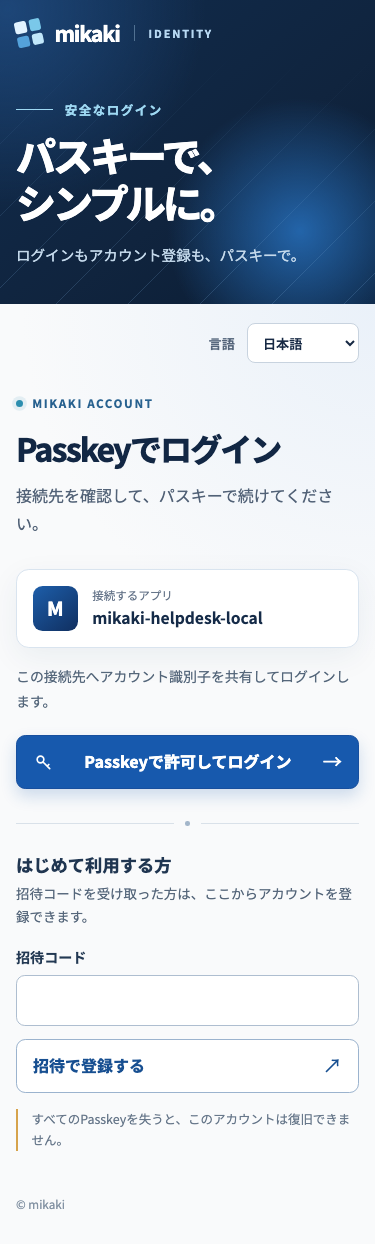
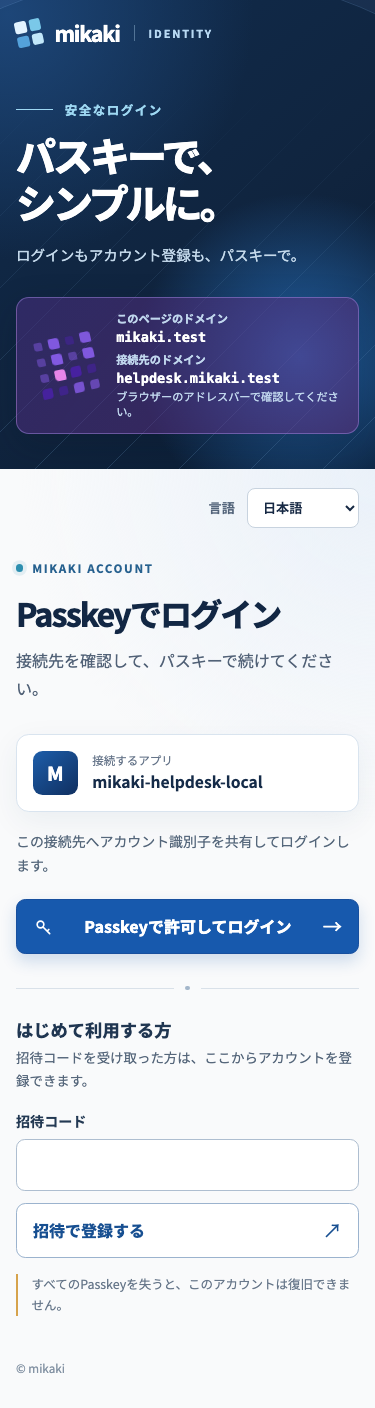
Add URI-responsive login identity cue

diff --git a/crates/worker/ui/auth.css b/crates/worker/ui/auth.css
@@ -159,6 +159,118 @@ select {
   line-height: 1.85;
 }
 
+.auth-session-cue {
+  display: flex;
+  align-items: center;
+  gap: 1rem;
+  width: fit-content;
+  max-width: 100%;
+  margin-top: 1.75rem;
+  padding: 0.85rem 1rem;
+  border: 1px solid hsl(var(--page-hue) 42% 82%);
+  border-radius: 0.8rem;
+  background: linear-gradient(125deg, hsl(var(--page-hue) 75% 97%), hsl(var(--rp-hue) 70% 94%));
+  background-size: 180% 180%;
+  animation: auth-cue-drift 12s ease-in-out infinite alternate;
+}
+
+.auth-story .auth-session-cue {
+  border-color: hsl(var(--page-hue) 65% 72% / 0.48);
+  background: linear-gradient(
+    125deg,
+    hsl(var(--page-hue) 48% 35% / 0.52),
+    hsl(var(--rp-hue) 48% 32% / 0.5)
+  );
+  background-size: 180% 180%;
+  box-shadow: 0 12px 35px #07172938;
+}
+
+.auth-session-pattern {
+  display: grid;
+  grid-template-columns: repeat(4, 0.7rem);
+  gap: 0.3rem;
+  flex: none;
+  padding: 0.25rem;
+  transform: rotate(-12deg);
+}
+
+.auth-session-tile {
+  width: 0.7rem;
+  height: 0.7rem;
+  border-radius: 0.24rem 0.1rem 0.24rem 0.1rem;
+  background: hsl(var(--page-hue) 66% 39%);
+  transform: rotate(var(--turn));
+  animation: auth-tile-breathe 3.6s ease-in-out infinite;
+  animation-delay: var(--delay);
+}
+
+.auth-session-tone-1 {
+  background: hsl(var(--page-hue) 70% 62%);
+}
+.auth-session-tone-2 {
+  background: hsl(var(--rp-hue) 70% 72%);
+}
+.auth-session-tone-3 {
+  background: hsl(var(--rp-hue) 61% 36%);
+}
+
+.auth-origin {
+  display: flex;
+  flex-direction: column;
+  min-width: 0;
+  gap: 0.1rem;
+  line-height: 1.35;
+}
+
+.auth-origin-label,
+.auth-origin-hint {
+  color: #526277;
+  font-size: 0.7rem;
+}
+
+.auth-origin-label {
+  font-weight: 700;
+}
+.auth-origin-rp-label {
+  margin-top: 0.25rem;
+}
+
+.auth-origin-host {
+  color: #173b63;
+  font-family: ui-monospace, SFMono-Regular, Menlo, Consolas, monospace;
+  font-size: 0.85rem;
+  overflow-wrap: anywhere;
+}
+
+.auth-story .auth-origin-label,
+.auth-story .auth-origin-hint {
+  color: #c0d6ed;
+}
+.auth-story .auth-origin-host {
+  color: #fff;
+}
+
+@keyframes auth-tile-breathe {
+  0%,
+  100% {
+    opacity: 0.48;
+    scale: 0.75;
+  }
+  45% {
+    opacity: 1;
+    scale: 1;
+  }
+}
+
+@keyframes auth-cue-drift {
+  from {
+    background-position: 0% 50%;
+  }
+  to {
+    background-position: 100% 50%;
+  }
+}
+
 .auth-art {
   position: relative;
   width: clamp(16rem, 28vw, 26rem);
@@ -635,5 +747,12 @@ select {
   .auth-secondary,
   .auth-field input {
     transition: none;
+  }
+  .auth-session-cue,
+  .auth-session-tile {
+    animation: none;
+  }
+  .auth-session-tile {
+    opacity: 1;
   }
 }

diff --git a/local/conformance/worker-ui.test.ts b/local/conformance/worker-ui.test.ts
@@ -48,7 +48,7 @@ test('Worker login and Vault mount their Svelte screens in both locales', async 
       if (url.pathname === '/login') {
         await route.fulfill({
           contentType: 'text/html; charset=utf-8',
-          body: `<!doctype html><html lang="${locale}"><head><title>mikaki</title><link rel="stylesheet" href="/login/login.css"></head><body><div id="app" data-tx="${'a'.repeat(43)}" data-challenge="${'b'.repeat(43)}" data-rp-id="mikaki.test" data-client="test-rp" data-enrollment="${url.searchParams.has('enroll')}"></div><script type="module" src="/login/login.js"></script></body></html>`,
+          body: `<!doctype html><html lang="${locale}"><head><title>mikaki</title><link rel="stylesheet" href="/login/login.css"></head><body><div id="app" data-tx="${'a'.repeat(43)}" data-challenge="${'b'.repeat(43)}" data-rp-id="mikaki.test" data-rp-uri="https://${url.searchParams.has('other-rp') ? 'other.example' : 'client.example'}/callback" data-client="test-rp" data-enrollment="${url.searchParams.has('enroll')}"></div><script type="module" src="/login/login.js"></script></body></html>`,
         });
         return;
       }
@@ -65,6 +65,15 @@ test('Worker login and Vault mount their Svelte screens in both locales', async 
     await page.goto('https://mikaki.test/login');
     await page.getByRole('button', { name: 'Passkeyで許可してログイン' }).waitFor();
     assert.equal(await page.getByText('test-rp').count(), 1);
+    assert.equal(await page.locator('.auth-origin-host').first().textContent(), 'mikaki.test');
+    assert.equal(await page.locator('.auth-origin-host').nth(1).textContent(), 'client.example');
+    assert.equal(await page.locator('.auth-session-tile').count(), 16);
+    const firstStyle = await page.locator('.auth-session-cue').getAttribute('style');
+    await page.goto('https://mikaki.test/login?other-rp=1');
+    await page.getByRole('button', { name: 'Passkeyで許可してログイン' }).waitFor();
+    assert.notEqual(await page.locator('.auth-session-cue').getAttribute('style'), firstStyle);
+    await page.goto('https://mikaki.test/login');
+    await page.getByRole('button', { name: 'Passkeyで許可してログイン' }).waitFor();
     assert.equal(
       await page
         .locator('.auth-primary')

diff --git a/crates/worker/ui/SessionCue.svelte b/crates/worker/ui/SessionCue.svelte
@@ -1,0 +1,60 @@
+<script lang="ts">
+  let {
+    seed,
+    pageUri,
+    rpUri,
+    pageLabel,
+    rpLabel,
+    hint,
+  }: {
+    seed: string;
+    pageUri: string;
+    rpUri: string;
+    pageLabel: string;
+    rpLabel: string;
+    hint: string;
+  } = $props();
+
+  function hash(value: string): number {
+    let result = 2166136261;
+    for (const character of value) {
+      result = Math.imul(result ^ character.charCodeAt(0), 16777619);
+    }
+    return result >>> 0;
+  }
+
+  const page = $derived(new URL(pageUri));
+  const rp = $derived(new URL(rpUri));
+  const pageHue = $derived(190 + (hash(page.origin + page.pathname) % 140));
+  const rpHue = $derived((pageHue + 25 + (hash(rp.origin + rp.pathname) % 46)) % 360);
+  const tiles = $derived(
+    Array.from({ length: 16 }, (_, index) => {
+      const value = hash(`${page.origin}${page.pathname}|${rp.href}|${seed}|${index}`);
+      return {
+        tone: (value >>> 12) % 4,
+        style: `--turn: ${((value >>> 16) % 4) * 90}deg; --delay: -${((value >>> 8) % 36) / 10}s;`,
+      };
+    }),
+  );
+</script>
+
+<div class="auth-session-cue" style={`--page-hue: ${pageHue}; --rp-hue: ${rpHue};`}>
+  <div class="auth-session-pattern" aria-hidden="true">
+    {#each tiles as tile}
+      <span
+        class="auth-session-tile"
+        class:auth-session-tone-1={tile.tone === 1}
+        class:auth-session-tone-2={tile.tone === 2}
+        class:auth-session-tone-3={tile.tone === 3}
+        style={tile.style}
+      ></span>
+    {/each}
+  </div>
+  <div class="auth-origin">
+    <span class="auth-origin-label">{pageLabel}</span>
+    <strong class="auth-origin-host">{page.host}</strong>
+    <span class="auth-origin-label auth-origin-rp-label">{rpLabel}</span>
+    <strong class="auth-origin-host">{rp.host}</strong>
+    <span class="auth-origin-hint">{hint}</span>
+  </div>
+</div>

diff --git a/local/ui/src/App.svelte b/local/ui/src/App.svelte
@@ -2,15 +2,20 @@
   import { onMount } from 'svelte';
   import * as m from './paraglide/messages.js';
   import { getLocale, setLocale, type Locale } from './paraglide/runtime.js';
+  import SessionCue from '../../../crates/worker/ui/SessionCue.svelte';
   let invitation = $state(''),
     consent = $state(false),
     busy = $state(false),
     error = $state(false),
     missingInvitation = $state(false),
     expired = $state(false);
-  let context = $state<{ tx: string; csrf: string; client: string; signed_in: boolean } | null>(
-    null,
-  );
+  let context = $state<{
+    tx: string;
+    csrf: string;
+    client: string;
+    rp_uri: string;
+    signed_in: boolean;
+  } | null>(null);
   const tx = new URL(location.href).searchParams.get('tx');
   const decode = (s: string) =>
     Uint8Array.from(atob(s.replaceAll('-', '+').replaceAll('_', '/')), (c) => c.charCodeAt(0));
@@ -118,6 +123,16 @@
       <p class="auth-kicker">{m.authKicker()}</p>
       <h1 id="auth-title">{m.authHeroHeadingFirst()}<br />{m.authHeroHeadingSecond()}</h1>
       <p>{m.authHeroDescription()}</p>
+      {#if context}
+        <SessionCue
+          seed={context.tx}
+          pageUri={location.href}
+          rpUri={context.rp_uri}
+          pageLabel={m.authOriginLabel()}
+          rpLabel={m.authRpOriginLabel()}
+          hint={m.authOriginHint()}
+        />
+      {/if}
     </section>
     <section class="auth-card" aria-labelledby="auth-action-title">
       <h2 id="auth-action-title">{m.login()}</h2>

diff --git a/crates/worker/ui/Login.svelte b/crates/worker/ui/Login.svelte
@@ -2,12 +2,14 @@
   import { onMount } from 'svelte';
   import * as m from './paraglide/messages.js';
   import { switchLocale } from './locale.js';
+  import SessionCue from './SessionCue.svelte';
   import type { Locale } from './paraglide/runtime.js';
 
   let {
     tx,
     challenge,
     rpId,
+    rpUri,
     client,
     enrollment,
     locale,
@@ -15,6 +17,7 @@
     tx: string;
     challenge: string;
     rpId: string;
+    rpUri: string;
     client: string;
     enrollment: boolean;
     locale: Locale;
@@ -194,6 +197,14 @@
       </p>
       <h1 id="auth-title">{m.authHeroHeadingFirst()}<br />{m.authHeroHeadingSecond()}</h1>
       <p class="auth-hero-description">{m.authHeroDescription()}</p>
+      <SessionCue
+        seed={tx}
+        pageUri={location.href}
+        {rpUri}
+        pageLabel={m.authOriginLabel()}
+        rpLabel={m.authRpOriginLabel()}
+        hint={m.authOriginHint()}
+      />
     </div>
     <div class="auth-art" aria-hidden="true">
       <div class="auth-art-ring auth-art-ring-outer"></div>

diff --git a/crates/worker/ui/login.ts b/crates/worker/ui/login.ts
@@ -5,8 +5,8 @@ import './auth.css';
 
 const target = document.getElementById('app');
 if (!(target instanceof HTMLElement)) throw new Error('Invalid login page');
-const { tx, challenge, rpId, client, enrollment } = target.dataset;
-if (!tx || !challenge || !rpId || !client) throw new Error('Invalid login transaction');
+const { tx, challenge, rpId, rpUri, client, enrollment } = target.dataset;
+if (!tx || !challenge || !rpId || !rpUri || !client) throw new Error('Invalid login transaction');
 
 mount(Login, {
   target,
@@ -14,6 +14,7 @@ mount(Login, {
     tx,
     challenge,
     rpId,
+    rpUri,
     client,
     enrollment: enrollment === 'true',
     locale: initializeLocale(),

diff --git a/local/op.ts b/local/op.ts
@@ -102,7 +102,13 @@ async function sso(db: any, req: Request) {
 async function context(db: any, req: Request, id: string | null) {
   const l = await login(db, req, id);
   const s = await sso(db, req);
-  return json({ tx: l.id, csrf: l.csrf, client: 'Mikaki local RP', signed_in: !!s });
+  return json({
+    tx: l.id,
+    csrf: l.csrf,
+    client: 'Mikaki local RP',
+    rp_uri: CALLBACK,
+    signed_in: !!s,
+  });
 }
 function transactionGuard(db: any, l: { id: string; browser_hash: string }) {
   return guard(

diff --git a/local/conformance/oidf-local-worker.ts b/local/conformance/oidf-local-worker.ts
@@ -163,6 +163,7 @@ try {
   assert.match(loginHtml, /<html lang="en">/);
   assert.match(loginHtml, /id="app" data-tx="[A-Za-z0-9_-]{43}"/);
   assert.match(loginHtml, /data-client="mikaki-basic-one"/);
+  assert.ok(loginHtml.includes(`data-rp-uri="${redirectUri}"`));
   assert.match(loginHtml, /src="\/login\/login\.js"/);
   const loginScript = await worker.fetch(new URL('/login/login.js', issuer));
   assert.equal(loginScript.status, 200);

diff --git a/crates/worker/src/passkey_login.rs b/crates/worker/src/passkey_login.rs
@@ -121,8 +121,20 @@ pub(super) async fn get(
         });
     let strings = crate::i18n::catalog(crate::i18n::select(&request, ui_locales.as_deref())?);
     let enrollment = login.client_id == "mikaki-internal-enrollment";
+    let rp_uri = if enrollment {
+        login.authorization_url.clone()
+    } else {
+        url::Url::parse(&login.authorization_url)
+            .ok()
+            .and_then(|url| {
+                url.query_pairs()
+                    .find(|(key, _)| key == "redirect_uri")
+                    .map(|(_, value)| value.into_owned())
+            })
+            .ok_or_else(|| worker::Error::RustError("invalid login transaction".into()))?
+    };
     let html = format!(
-        r#"<!doctype html><html lang="{locale}"><head><meta charset="utf-8"><meta name="viewport" content="width=device-width, initial-scale=1"><title>{title}</title><link rel="stylesheet" href="/login/login.css"></head><body><div id="app" data-tx="{tx}" data-challenge="{challenge}" data-rp-id="{rp_id}" data-client="{client}" data-enrollment="{enrollment}"></div><script type="module" src="/login/login.js"></script></body></html>"#,
+        r#"<!doctype html><html lang="{locale}"><head><meta charset="utf-8"><meta name="viewport" content="width=device-width, initial-scale=1"><title>{title}</title><link rel="stylesheet" href="/login/login.css"></head><body><div id="app" data-tx="{tx}" data-challenge="{challenge}" data-rp-id="{rp_id}" data-rp-uri="{rp_uri}" data-client="{client}" data-enrollment="{enrollment}"></div><script type="module" src="/login/login.js"></script></body></html>"#,
         locale = strings.locale,
         title = crate::i18n::html_escape(strings.message(if enrollment {
             "enrollHeading"
@@ -136,6 +148,7 @@ pub(super) async fn get(
         }),
         enrollment = if enrollment { "true" } else { "false" },
         challenge = login.challenge,
+        rp_uri = crate::i18n::html_escape(&rp_uri),
     );
     worker::Response::builder()
         .with_header("Cache-Control", "no-store")?

diff --git a/crates/worker/build.rs b/crates/worker/build.rs
@@ -5,6 +5,7 @@ fn main() {
     println!("cargo:rerun-if-changed=ui/auth.css");
     println!("cargo:rerun-if-changed=ui/vault.ts");
     println!("cargo:rerun-if-changed=ui/Login.svelte");
+    println!("cargo:rerun-if-changed=ui/SessionCue.svelte");
     println!("cargo:rerun-if-changed=ui/Admin.svelte");
     println!("cargo:rerun-if-changed=ui/admin.ts");
     println!("cargo:rerun-if-changed=ui/Complete.svelte");

diff --git a/docs/login-ui-preview.md b/docs/login-ui-preview.md
@@ -10,4 +10,6 @@
 
 ログイン画面のスタイルは [`auth.css`](../crates/worker/ui/auth.css) に置き、本番 Worker とローカル OP の画面で使用します。ブランド面と操作面を分け、接続先の確認、パスキーの操作、招待による登録を順に配置しました。文字組み、ボタンの優先度、入力欄のラベルとエラー表示は、デジタル庁デザインシステムの[タイポグラフィ](https://design.digital.go.jp/dads/foundations/typography/)、[ボタン](https://design.digital.go.jp/dads/components/button/)、[インプットテキスト](https://design.digital.go.jp/dads/components/input-text/)を参考にしています。配色とロゴは mikaki 用です。
 
+左側の模様は現在のページ URI、検証済みの RP `redirect_uri`、ログイン取引の値から描画します。配色は両 URI、色の並びと動きは取引値にも連動するため、別ドメインで同じ画面をホストすると見た目が変わります。動きを減らす OS 設定では静止します。両方のドメインを表示し、現在のページのドメインをアドレスバーと照合するよう促します。模様やページ内のドメイン表示は偽装できるため、真正性の証明ではありません。最終的な確認はアドレスバーとブラウザーの Passkey UI に表示されるドメインで行います。
+
 再撮影する場合は `worker-build --release crates/worker` の後に `node docs/login-ui-preview/capture.mjs` を実行します。
